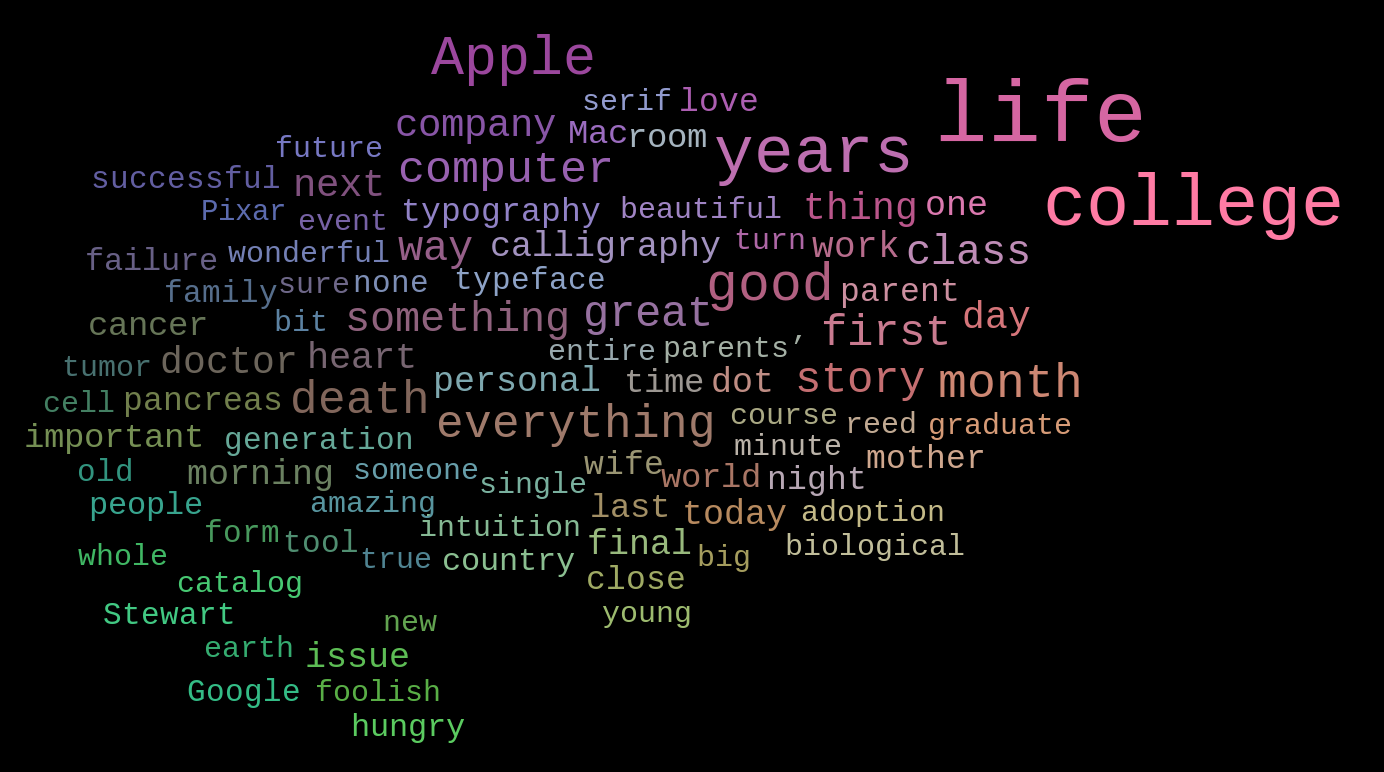
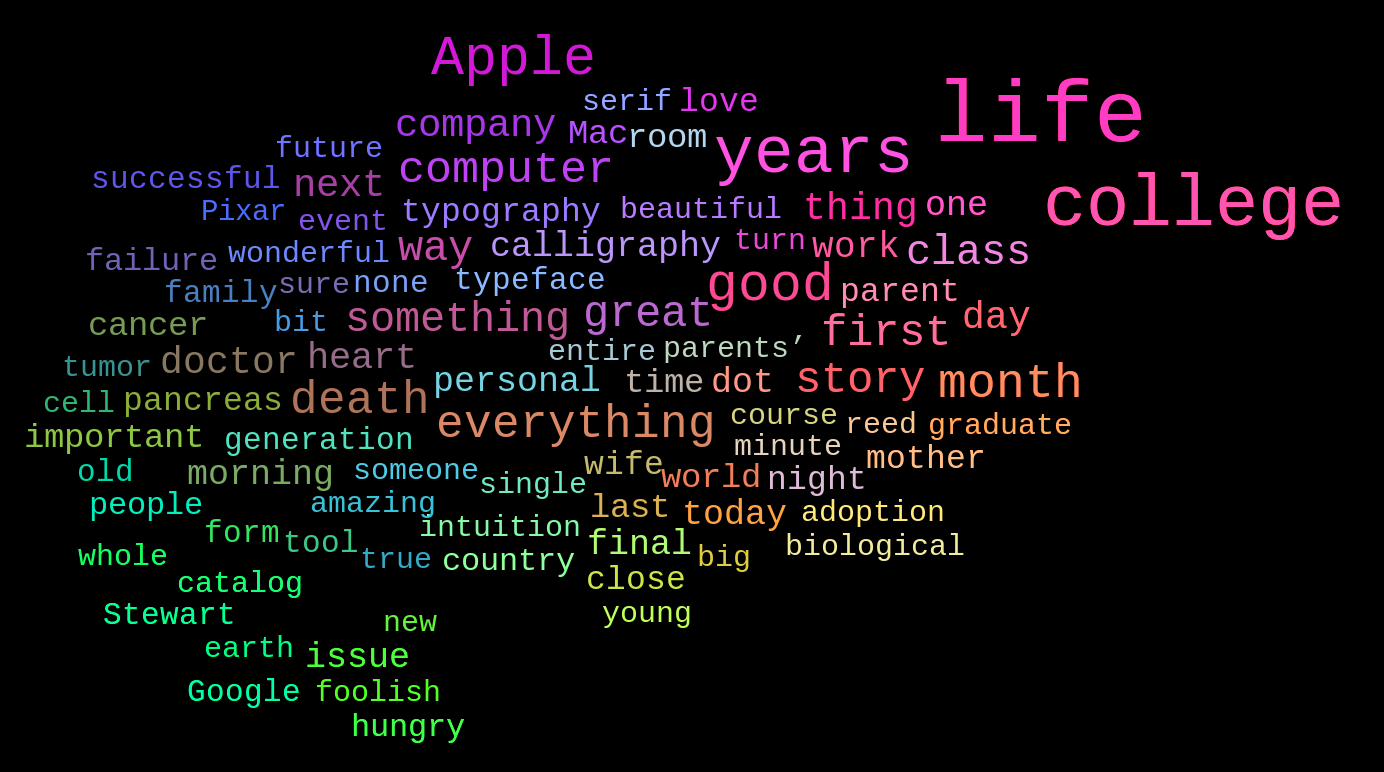
Added examples, updated readme

diff --git a/wordmesh/__init__.py b/wordmesh/__init__.py
@@ -5,7 +5,7 @@ Created on Sun May 27 20:38:01 2018
 
 @author: mukund
 """
-__version__ = '0.1.0b1'
+__version__ = '0.1.0b2'
 
 from .static_wordmesh import Wordmesh, LabelledWordmesh
 

diff --git a/README.md b/README.md
@@ -7,17 +7,47 @@ A wordcloud/wordmesh generator that allows users to extract keywords from text, 
 Most popular open-source wordcloud generators ([word_cloud](https://github.com/amueller/word_cloud), [d3-cloud](https://github.com/jasondavies/d3-cloud), [echarts-wordcloud](https://github.com/ecomfe/echarts-wordcloud)) focus more on the aesthetics of the visualization than on effectively conveying textual features. **word-mesh** strikes a balance between the two and uses the various statistical, semantic and grammatical features of the text to inform visualization parameters.
 
 #### Features:
- - *keyword extraction*: In addition to 'word frequency' based extraction techniques, word-mesh supports graph based methods like **textrank**, **sgrank**, **bestcoverage** and **divrank**.
+ - *keyword extraction*: In addition to 'word frequency' based extraction techniques, word-mesh supports graph based methods like **textrank**, **sgrank** and **bestcoverage**.
  
- - *word clustering*: Words can be grouped together on the canvas based on their semantic similarity, co-occurence frequency, and other grammatical properties.
+ - *word clustering*: Words can be grouped together on the canvas based on their semantic similarity, co-occurence frequency, and other properties.
  
- - *keyword filtering*: Extracted keywords can be filtered based on pos tags and named entity types.
+ - *keyword filtering*: Extracted keywords can be filtered based on their pos tags or whether they are named entities.
  
- - *fontcolors and fontsizes*: These can be set based on the following criteria - word frequency, pos-tags, word-longevity.
+ - *fontcolors and fontsizes*: These can be set based on the following criteria - word frequency, pos-tags, ranking algorithm score.
  
 
 ## How it works?
 **word-mesh** uses [spacy](https://spacy.io/)'s pretrained language models to gather textual features, graph based algorithms to extract keywords, [Multidimensional Scaling](https://en.wikipedia.org/wiki/Multidimensional_scaling) to place these keywords on the canvas and a force-directed algorithm to optimize inter-word spacing.
+
+
+## Examples
+
+Here's a visalization of the force-directed algorithm. The words are extracted using *textrank* from a textbook on international law, and are grouped together on the canvas based on their co-occurence frequency. The colours indicate the pos tags of the words.
+
+![animation](examples/animation.gif)
+
+
+This wordmesh was created from Steve Job's famous commencement speech at Stanford. The keywords are extracted using *textrank* and clustered based on their *scores*. The fontcolors and fontsizes are also a function of the scores. *[Code](examples/examples.ipynb)*
+
+![jobs-scores](examples/Jobs-speech-scores.png)
+
+This is from the same text, but the clustering has been done based on *cooccurence frequency* of keywords. The colors have been assigned using the same criteria used to cluster them. 
+
+This is quite apparent from the positions of the words. You can see the words like 'hungry' and 'foolish' have been grouped together, since they occur close to each other in the text as part of the famous quote **"Stay hungry. Stay foolish"**. *[Code](examples/examples.ipynb)*
+
+![jobs-cooccurence](examples/Jobs-speech-cooccurence-demo.png)
+
+
+
+This is a wordmesh of all the *adjectives* used in a 2016 US Presidential Debate between Donald Trump and Hillary Clinton. The words are clustered based on their *meaning*, with the font size indicating the usage frequency, and the color corresponding to which candidate used them. *[Code](examples/examples_labelled.ipynb)*
+
+![debate](examples/trump_hillary_debate_adj.png)
+
+
+
+This example is taken from a news article on the Brazil vs Belgium 2018 Russia WC QF. The colors correspond to the *POS tags* of the words. The second figure is the same wordmesh clustered based on the words' *cooccurence frequency*. *[Code](examples/examples.ipynb)*
+
+![fifa](examples/Belgium-Brazil.png) ![fifa2](examples/Belgium-Brazil-cooccurence.png)
 
 ## Installation
 
@@ -31,22 +61,47 @@ You would also need to download the following language model (size ~ 115MB):
 
 This is required for POS tagging and for accessing word vectors. For more information on the download, or for help with the installation, visit [here](https://spacy.io/usage/models).
 
-## How to use it?
+## Tutorial
+
+All functionality is contained within the 'Wordmesh' class.
 
     from wordmesh import Wordmesh
     
     #Create a Wordmesh object by passing the constructor the text that you wish to summarize
     with open('sample.txt', 'r') as f:
         text = f.read()
-    wm = Wordmesh(text)
+    wm = Wordmesh(text) 
     
     #Save the plot
     wm.save_as_html(filename='my-wordmesh.html')
     #You can now open it in the browser, and subsequently save it in jpeg format if required
     
-The Wordmesh object offers 3 'set' methods which can be used to set the fontsize, fontcolor and the clustering criteria.
+    #If you are using a jupyter notebook, you can plot it inline
+    wm.plot()
+    
+The Wordmesh object offers 3 'set' methods which can be used to set the fontsize, fontcolor and the clustering criteria. **Check the inline documentation for details**.
 
-## Examples
-Here's a visalization of the force-directed algorithm. The words are extracted using **textrank** from a textbook on international law, and are grouped together on the canvas based on their co-occurence frequency. The colours indidcate the pos tags of the words.
+    wm.set_fontsize(by='scores')
+    wm.set_fontcolor(by='random')
+    wm.set_clustering_criteria(by='meaning')
+   
+You can access keywords, pos_tags, keyword scores and other important features of the text. These may be used to set custom visualization parameters.
 
-![animation](examples/animation.gif)
+    print(wm.keywords, wm.pos_tags, wm.scores)
+    
+    #set NOUNs to red and all else to green
+    f = lambda x: (200,0,0) if (x=='NOUN') else (0,200,0)
+    colors = list(map(f, wm.pos_tags))
+    
+    wm.set_fontcolor(custom_colors=colors)
+    
+For more examples check out [this](examples/examples.ipynb) notebook.
+
+If you are working with text which is composed of various labelled sections (e.g. a conversation transcript), the LabelledWordmesh class (which inherits from Wordmesh) can be useful if you wish to treat those sections separately. Check out [this](examples/examples_labelled.ipynb) notebook for an example.
+
+## Notes
+
+- The code isn't optimized to work on large chunks of text. So be wary of the memory usage while processing text with >100,000 characters.
+- Currently, [Plotly](https://plot.ly/) is being used as the visualization backend. However, if you wish to use another tool, you can use the positions of the keywords, and the size of their bounding boxes, which are available as Wordmesh object attributes. These can be used to render the words using a tool of your choice.
+- As of now, POS based filtering, and multi-gram extraction cannot be done when using graph based extraction algorithms. This is due to some problems with underlying libraries which will hopefully be fixed in the future.
+- Even though you have the option of choosing 'TSNE' as the clustering algorithm, I would advise against it since it still needs to be tested thoroughly.
